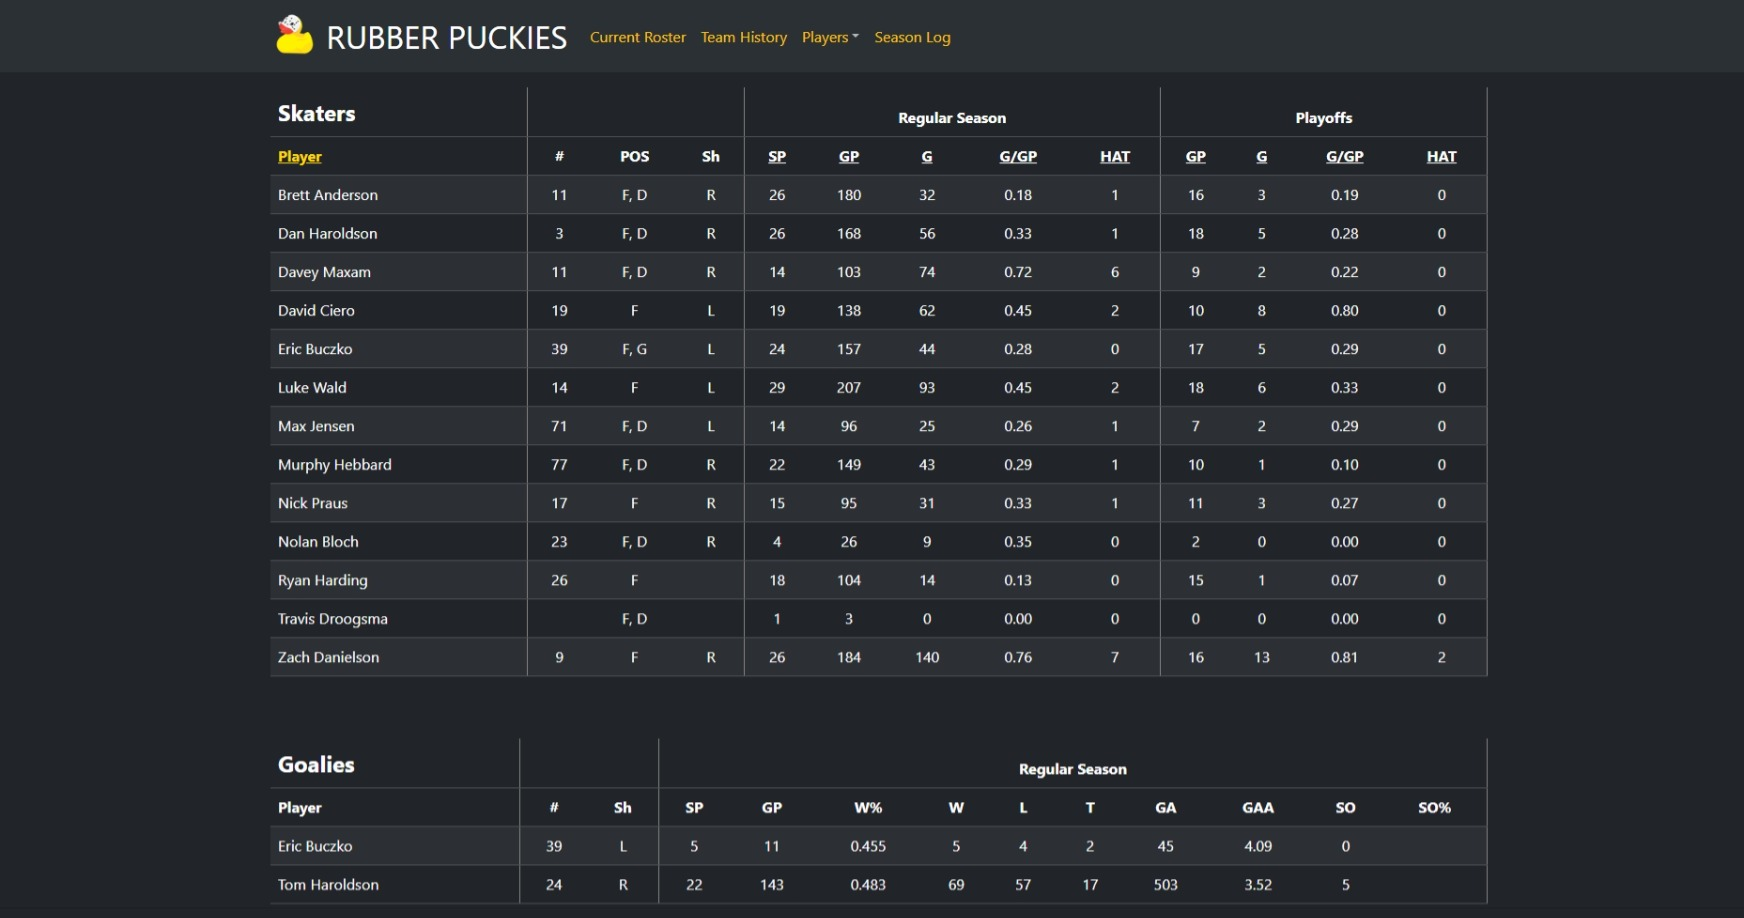
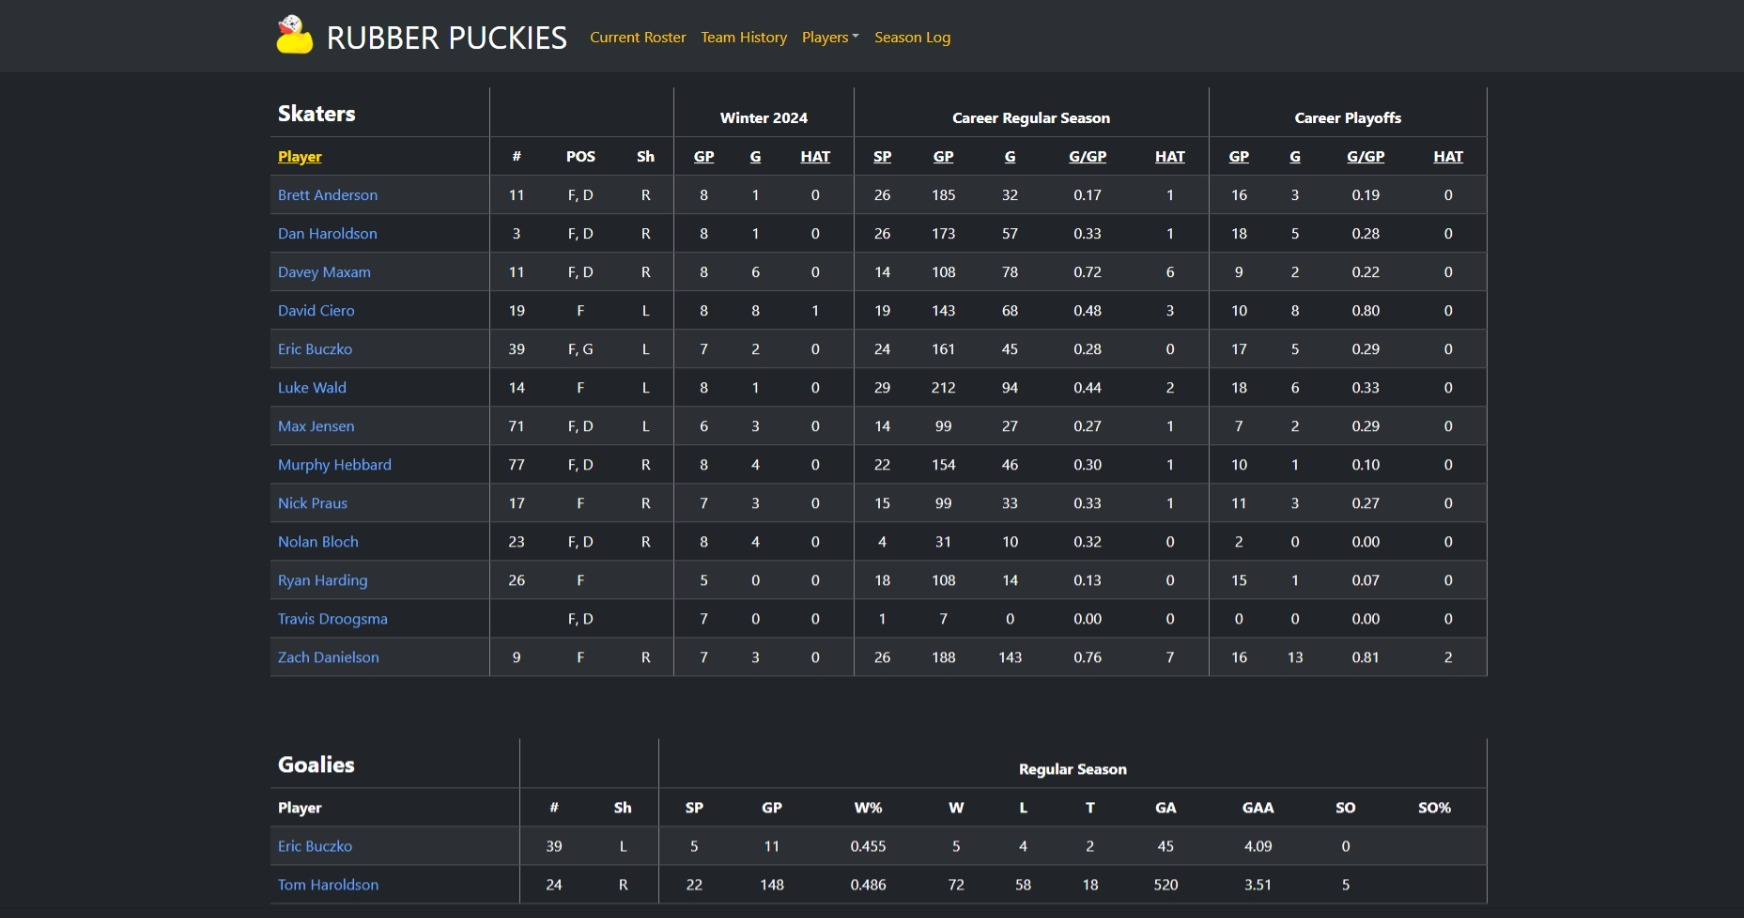
Update README.md to have up to date images

diff --git a/README.md b/README.md
@@ -55,8 +55,11 @@ The following images share the application's apperance for both the typical user
 ### Team History Page
 ![Image preview of the apps team history page](./client/public/assets/images/app-preview-images/rp-webapp-team-history.jpeg)
 
-### Individual Player Pages
-![Image preview of the apps individual player pages](./client/public/assets/images/app-preview-images/rp-webapp-individual-player-page-luke-wald.jpeg)
+### Individual Player Pages (Stats Tab)
+![Image preview of the apps individual player pages](./client/public/assets/images/app-preview-images/rp-webapp-individual-player-page-luke-wald-1.jpeg)
+
+### Individual Player Pages (Splits Tab)
+![Image preview of the apps individual player pages](./client/public/assets/images/app-preview-images/rp-webapp-individual-player-page-luke-wald-2.jpeg)
 
 ### Season Log Page
 ![Image preview of the apps season log pages](./client/public/assets/images/app-preview-images/rp-webapp-season-log.jpeg)
